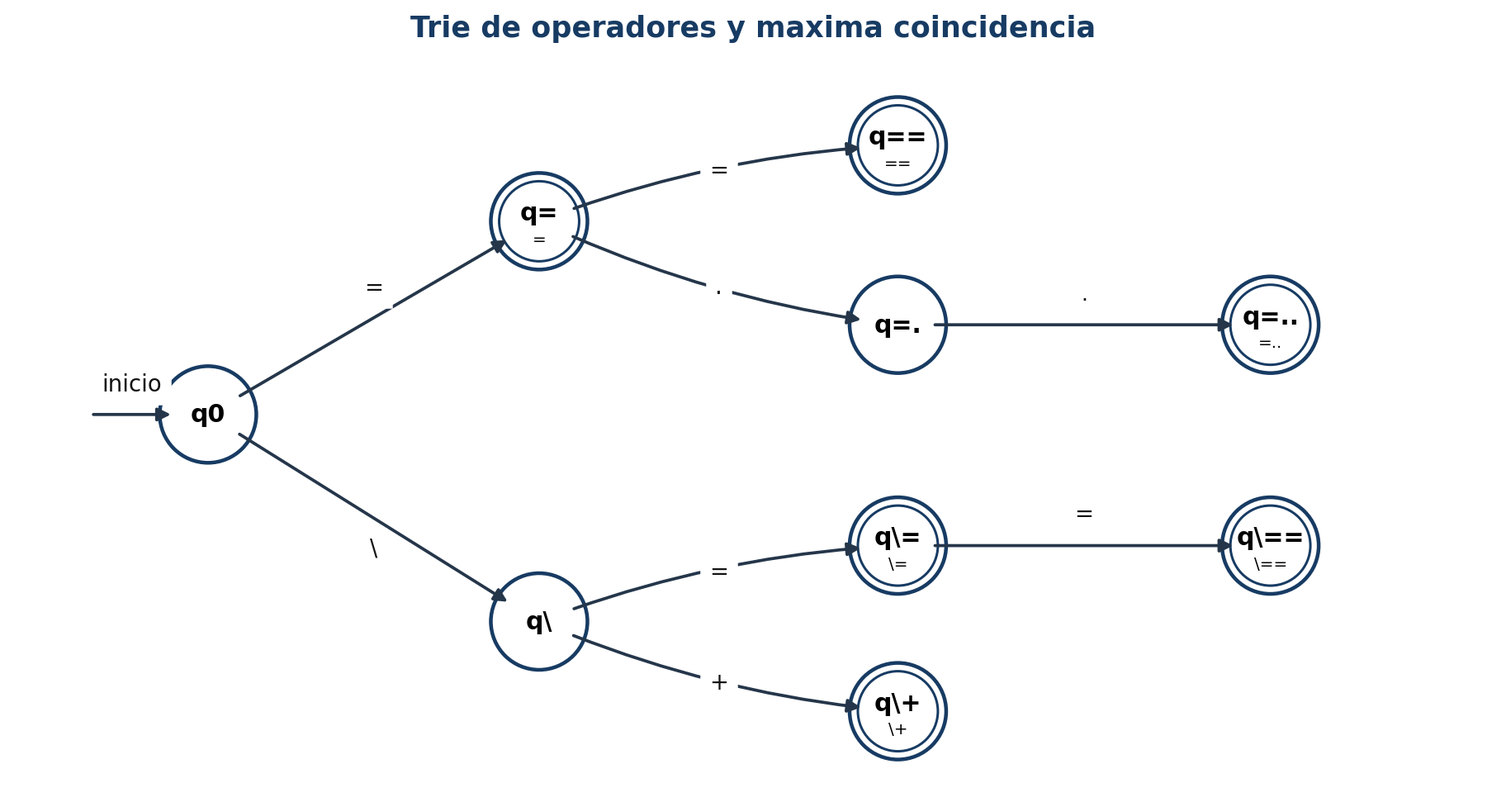
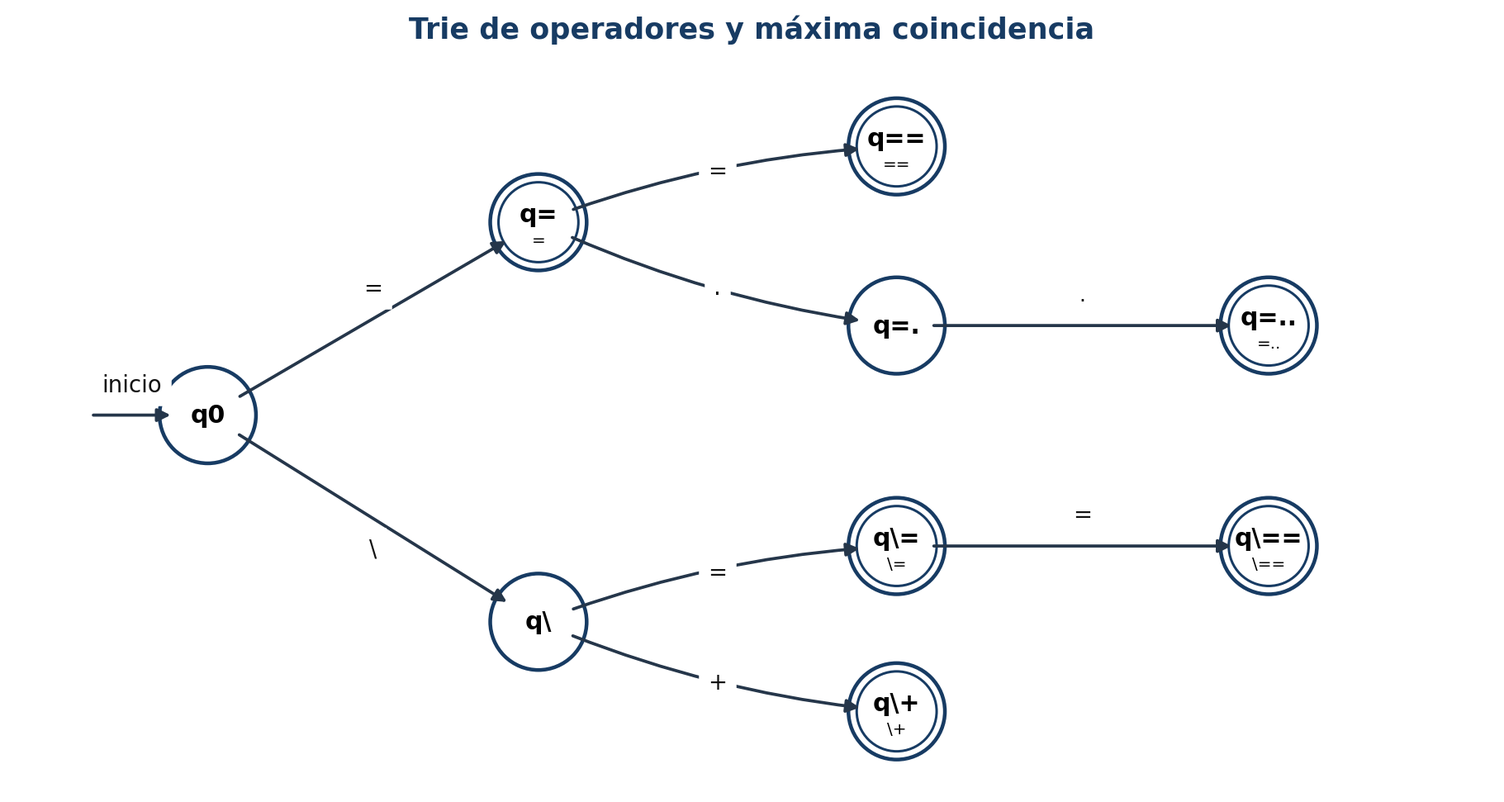
docs: alinear expresiones regulares y automatas con el lexer

diff --git a/informe/secciones/04_automatas.tex b/informe/secciones/04_automatas.tex
@@ -1,11 +1,11 @@
 \section{Diseño de los autómatas}
 
-Los autómatas de las Figuras~\ref{fig:identificadores}, \ref{fig:numeros} y \ref{fig:operadores} representan las categorías con mayor posibilidad de superposición. Los estados con doble circunferencia son aceptadores. Si un estado aceptador mantiene transiciones de salida, el analizador guarda esa aceptación y continúa leyendo; cuando ya no existe una transición válida, retorna el último estado aceptador alcanzado. Ese procedimiento implementa la máxima coincidencia sin confundirla con la prioridad entre categorías.
+Los autómatas de las Figuras~\ref{fig:identificadores}, \ref{fig:numeros} y \ref{fig:operadores} representan las categorías con mayor posibilidad de superposición. La flecha de entrada identifica el estado inicial $q_0$ y la doble circunferencia identifica los estados aceptadores, con la categoría indicada en su interior. Las transiciones omitidas llevan a un estado muerto implícito. Al tokenizar, se conserva la última aceptación y se devuelve el prefijo aceptado más largo; el carácter que inicia el siguiente token queda sin consumir. La validación de fronteras numéricas puede sustituir ese prefijo por un diagnóstico, según la especificación anterior.
 
 \begin{figure}[H]
   \centering
   \includegraphics[width=0.98\textwidth]{figuras/afd_identificadores.png}
-  \caption{AFD para átomos no citados, variables y variable anónima.}
+  \caption{AFD para identificadores. El estado $q_A$ requiere reclasificar \texttt{is} y \texttt{mod}.}
   \label{fig:identificadores}
 \end{figure}
 
@@ -23,9 +23,61 @@ Los autómatas de las Figuras~\ref{fig:identificadores}, \ref{fig:numeros} y \re
   \label{fig:operadores}
 \end{figure}
 
+El estado $q_{\_}$ acepta únicamente la variable anónima. Si se lee otro carácter de $C$, se pasa a $q_V$ y el lexema completo es una variable con nombre. En el autómata numérico, $q_I$, $q_R$ y $q_{Exp}$ aceptan ENTERO, REAL y REAL, respectivamente; $q_{.}$, $q_E$ y $q_S$ no aceptan. Por ejemplo, \texttt{2e-3} recorre $q_0,q_I,q_E,q_S,q_{Exp}$. Para \texttt{12.}, la última aceptación es $q_I$: el punto queda como delimitador. Para \texttt{1e+}, la frontera detecta un exponente incompleto y produce un error, en lugar de emitir el entero \texttt{1}.
+
+El trie mostrado es un fragmento: \texttt{=} y \verb|\=| ya aceptan, pero pueden prolongarse hasta \texttt{==}, \texttt{=..} y \verb|\==|. En el lexer, la tupla completa \texttt{SYMBOL\_OPERATORS}, ordenada por longitud descendente, representa las demás ramas. Un delimitador requiere una transición desde el inicio a su estado aceptador; espacios y comentarios terminados alcanzan estados de descarte.
+
+\subsection{Autómatas para citas y comentarios}
+
+Un mismo AFD sirve para ATOMO\_CITADO y CADENA parametrizando la comilla $c$ (simple o doble). Sea $E=\{n,t,r,\backslash,\text{comilla simple},\text{comilla doble}\}$ el conjunto permitido después de una barra. La Tabla~\ref{tab:afd-citas} especifica todas las transiciones que no van al estado muerto. $Q_0$ es inicial y $Q_F$ es el único aceptador: emite el tipo determinado por $c$. Las clases de cada fila son disjuntas; en $Q_I$ la comilla opuesta es un carácter ordinario.
+
+\begin{table}[H]
+\centering
+\small
+\caption{AFD parametrizado para átomos citados y cadenas.}
+\label{tab:afd-citas}
+\begin{tabularx}{\textwidth}{C{1.5cm}Y C{1.5cm} L{4.0cm}}
+\toprule
+\tableheader{Origen} & \tableheader{Entrada} & \tableheader{Destino} & \tableheader{Interpretación} \\
+\midrule
+$Q_0$ & $c$ & $Q_I$ & Apertura \\
+\rowcolor{palegray} $Q_I$ & $\Sigma\setminus\{c,\backslash,\mathrm{CR},\mathrm{LF}\}$ & $Q_I$ & Contenido ordinario \\
+$Q_I$ & $\backslash$ & $Q_E$ & Inicio de escape \\
+\rowcolor{palegray} $Q_E$ & $E$ & $Q_I$ & Escape admitido \\
+$Q_I$ & $c$ & $Q_F$ & Cierre y aceptación \\
+\bottomrule
+\end{tabularx}
+\end{table}
+
+CR, LF o fin de archivo antes de $Q_F$ generan un diagnóstico de cita sin cierre. Un escape fuera de $E$ impide aceptar el literal; la implementación conserva la primera secuencia inválida y continúa hasta su cierre o fin de línea para recuperar el análisis. Este recorrido de recuperación no convierte el literal erróneo en un token aceptado.
+
+Para comentarios de línea, el estado inicial $L_0$ pasa con \texttt{\%} a $L_1$, que es aceptador y repite con $\Sigma\setminus\{\mathrm{CR},\mathrm{LF}\}$. Al encontrar un salto o fin de archivo se descarta el comentario. El salto queda para el reconocedor de espacios. Para comentarios de bloque, la Tabla~\ref{tab:afd-bloque} reconoce el primer cierre \texttt{*/}; $B_0$ es inicial y $B_F$ es el único aceptador. Un fin de archivo en $B_2$ o $B_3$ produce un error de comentario sin cierre. La entrada \texttt{/*} activa este reconocedor antes que el operador \texttt{/}.
+
+\begin{table}[H]
+\centering
+\small
+\caption{Transiciones no muertas del AFD de comentarios de bloque.}
+\label{tab:afd-bloque}
+\begin{tabularx}{\textwidth}{C{1.5cm}Y C{1.5cm} L{4.0cm}}
+\toprule
+\tableheader{Origen} & \tableheader{Entrada} & \tableheader{Destino} & \tableheader{Interpretación} \\
+\midrule
+$B_0$ & \texttt{/} & $B_1$ & Primer carácter \\
+\rowcolor{palegray} $B_1$ & \texttt{*} & $B_2$ & Apertura completa \\
+$B_2$ & $\Sigma\setminus\{\texttt{*}\}$ & $B_2$ & Contenido \\
+\rowcolor{palegray} $B_2$ & \texttt{*} & $B_3$ & Posible cierre \\
+$B_3$ & \texttt{*} & $B_3$ & Mantiene posible cierre \\
+\rowcolor{palegray} $B_3$ & $\Sigma\setminus\{\texttt{*},\texttt{/}\}$ & $B_2$ & Continúa contenido \\
+$B_3$ & \texttt{/} & $B_F$ & Cierre y descarte \\
+\bottomrule
+\end{tabularx}
+\end{table}
+
 \subsection{Determinización representativa}
 
-Para mostrar la construcción de subconjuntos se utiliza el lenguaje de átomos no citados. Se parte de un AFN deliberadamente no mínimo que divide la primera letra en dos ramas equivalentes. El estado $q_0$ posee transiciones $\varepsilon$ hacia $p_0$ y $r_0$; desde $p_0$, una letra de $[a\text{-}m]$ lleva a $p_1$, mientras que desde $r_0$ una letra de $[n\text{-}z]$ lleva a $r_1$. Los estados $p_1$ y $r_1$ aceptan ATOMO y repiten con cualquier carácter de $C$. La transformación aplica la construcción de subconjuntos y luego refina particiones para obtener estados equivalentes \cite{hopcroft}.
+Para mostrar la construcción de subconjuntos se utiliza el lenguaje $LC^*$ de identificadores iniciados en minúscula, antes de reclasificar las palabras \texttt{is} y \texttt{mod}. En este ejemplo, la etiqueta ATOMO designa ese patrón estructural. Se parte de un AFN deliberadamente no mínimo que divide la primera letra en dos ramas equivalentes. El estado $q_0$ posee transiciones $\varepsilon$ hacia $p_0$ y $r_0$; desde $p_0$, una letra de $[a\text{-}m]$ lleva a $p_1$, mientras que desde $r_0$ una letra de $[n\text{-}z]$ lleva a $r_1$. Los estados $p_1$ y $r_1$ son aceptadores y repiten con cualquier carácter de $C$. La transformación aplica la construcción de subconjuntos y luego refina particiones para obtener estados equivalentes \cite{hopcroft}.
+
+Formalmente, $Q=\{q_0,p_0,r_0,p_1,r_1\}$, el inicial es $q_0$ y $F=\{p_1,r_1\}$. Las clases de entrada son $[a\text{-}m]$, $[n\text{-}z]$, $U\cup D\cup\{\_\}$ y $\Sigma\setminus C$. Para esta última, todas las transiciones del AFN son vacías; se omite su columna para facilitar la lectura.
 
 \begin{table}[H]
 \centering
@@ -45,7 +97,12 @@ $r_1$ & $\varnothing$ & $\{r_1\}$ & $\{r_1\}$ & $\{r_1\}$ \\
 \end{tabularx}
 \end{table}
 
-La clausura-$\varepsilon$ inicial es $D_0=\{q_0,p_0,r_0\}$. Al mover ese conjunto con $[a\text{-}m]$ se obtiene $D_1=\{p_1\}$; con $[n\text{-}z]$ se obtiene $D_2=\{r_1\}$. Cualquier clase sin transición conduce a $D_{\bot}=\varnothing$. Como $p_1$ y $r_1$ repiten con $C$, los subconjuntos alcanzados se mantienen estables después del primer carácter.
+Para un subconjunto $S$ y un carácter $a$ se calcula
+\[
+\delta_D(S,a)=\operatorname{cl}_{\varepsilon}
+\left(\bigcup_{q\in S}\delta_N(q,a)\right).
+\]
+La clausura-$\varepsilon$ inicial es $D_0=\{q_0,p_0,r_0\}$. Al mover ese conjunto con $[a\text{-}m]$ se obtiene $D_1=\{p_1\}$; con $[n\text{-}z]$ se obtiene $D_2=\{r_1\}$. Cualquier clase sin transición conduce a $D_{\bot}=\varnothing$. Como $p_1$ y $r_1$ repiten con $C$, no aparecen nuevos subconjuntos. Un subconjunto acepta si intersecta $F$, por lo que solo $D_1$ y $D_2$ son aceptadores. Los cuatro estados son alcanzables: con $\varepsilon$, \texttt{a}, \texttt{n} y \texttt{0}, respectivamente.
 
 \begin{table}[H]
 \centering
@@ -64,9 +121,13 @@ $D_2=\{r_1\}$ & $D_2$ & $D_2$ & $D_2$ & ATOMO \\
 \end{tabularx}
 \end{table}
 
+Para todo estado de la Tabla~\ref{tab:determinizado}, una entrada de $\Sigma\setminus C$ conduce a $D_{\bot}$. Por ejemplo, \texttt{padre\_1} sigue $D_0,D_2,D_2,D_2,D_2,D_2,D_2,D_2$ y acepta; \texttt{Padre} pasa inmediatamente al estado muerto. No se confunde rechazo como átomo con error global: el despachador reconoce \texttt{Padre} mediante el AFD de variables.
+
 \subsection{Minimización}
 
-La partición inicial es $P_0=\{\{D_1,D_2\},\{D_0,D_{\bot}\}\}$: el primer bloque contiene los estados que aceptan ATOMO y el segundo, los que no aceptan. El bloque no aceptador se divide porque desde $D_0$ una letra minúscula alcanza aceptación, mientras que desde $D_{\bot}$ toda entrada permanece en el estado muerto. En cambio, $D_1$ y $D_2$ no se separan: ambos producen el mismo token y, para cada clase de entrada de $C$, permanecen dentro del bloque aceptador. La partición estable es $P_1=\{\{D_1,D_2\},\{D_0\},\{D_{\bot}\}\}$, por lo que $D_1$ y $D_2$ se fusionan en $D_A$.
+La partición inicial es $P_0=\{\{D_1,D_2\},\{D_0,D_{\bot}\}\}$: el primer bloque contiene los estados que aceptan ATOMO y el segundo, los que no aceptan. El bloque no aceptador se divide porque desde $D_0$ una letra minúscula alcanza aceptación, mientras que desde $D_{\bot}$ toda entrada permanece en el estado muerto. En cambio, $D_1$ y $D_2$ no se separan: ambos aceptan exactamente los sufijos de $C^*$ y cualquier carácter fuera de $C$ lleva al mismo estado muerto. La partición estable es $P_1=\{\{D_1,D_2\},\{D_0\},\{D_{\bot}\}\}$, por lo que $D_1$ y $D_2$ se fusionan en la clase de equivalencia $D_A=[D_1]=[D_2]$.
+
+Los tres estados restantes son distinguibles: el sufijo vacío $\varepsilon$ separa $D_A$ de ambos estados no aceptadores, y el sufijo \texttt{a} distingue $D_0$ de $D_{\bot}$. Como todos son alcanzables, el AFD completo de tres estados es mínimo. En los diagramas parciales se omite el estado muerto y quedan dos estados visibles para este patrón. Esta minimización no corresponde al lexer entero: un AFD que emita varias categorías debe conservar las etiquetas de token al formar su partición inicial.
 
 \begin{table}[H]
 \centering
@@ -78,10 +139,16 @@ La partición inicial es $P_0=\{\{D_1,D_2\},\{D_0,D_{\bot}\}\}$: el primer bloqu
 \tableheader{Estado mínimo} & \tableheader{$[a$--$m]$} & \tableheader{$[n$--$z]$} & \tableheader{$U\cup D\cup\{\_\}$} & \tableheader{Aceptación} \\
 \midrule
 $D_0$ & $D_A$ & $D_A$ & $D_{\bot}$ & No \\
-\rowcolor{palegray} $D_A=D_1\cup D_2$ & $D_A$ & $D_A$ & $D_A$ & ATOMO \\
+\rowcolor{palegray} $D_A=[D_1]=[D_2]$ & $D_A$ & $D_A$ & $D_A$ & ATOMO \\
 $D_{\bot}$ & $D_{\bot}$ & $D_{\bot}$ & $D_{\bot}$ & No \\
 \bottomrule
 \end{tabularx}
 \end{table}
 
-El programa no materializa un AFD único en memoria. Utiliza una estrategia equivalente: un despachador selecciona el autómata de la categoría posible a partir del carácter inicial, las expresiones regulares representan los AFD de identificadores y números, y una lista ordenada codifica las hojas del trie de operadores. Los literales citados y comentarios se recorren con estados explícitos de cierre y escape. Todos los reconocedores entregan un lexema aceptado o un diagnóstico, y el ciclo principal conserva una única posición de lectura. Así se mantiene la relación entre el modelo formal y el recorrido implementado sin generar una tabla global de transición.
+Las entradas de $\Sigma\setminus C$ llevan a $D_{\bot}$ también en la Tabla~\ref{tab:minimo}. La reclasificación de \texttt{is} y \texttt{mod} se mantiene después del reconocimiento: fusionar los estados estructurales no elimina la consulta del lexema completo.
+
+\subsection{Estrategia integrada y correspondencia con el código}
+
+El programa no materializa un AFD único en memoria. Utiliza una estrategia equivalente: un despachador selecciona la categoría a partir del carácter inicial. Primero descarta espacios y comentarios; después reconoce citas, números e identificadores; finalmente intenta operadores, delimitadores y el diagnóstico de carácter no admitido. Las expresiones \texttt{IDENTIFIER}, \texttt{REAL} e \texttt{INTEGER} describen los lenguajes de sus AFD, y \texttt{SYMBOL\_OPERATORS} codifica las hojas del trie. Esto establece equivalencia de reconocimiento; no afirma que el motor \texttt{re} de Python ejecute internamente un AFD.
+
+Las superposiciones se resuelven de manera explícita: \texttt{/*} tiene prioridad sobre \texttt{/}; una cita consume su interior antes de reconocer operadores; un identificador se completa antes de reclasificar palabras; y los operadores se prueban por longitud descendente. Todos los reconocedores aceptan un lexema, descartan un separador o producen un diagnóstico que avanza la lectura. El ciclo principal conserva una sola posición y termina cuando llega al final de la fuente. Así se relacionan los autómatas, las reglas de prioridad y la recuperación sin incorporar análisis sintáctico.

diff --git a/informe/secciones/03_especificacion.tex b/informe/secciones/03_especificacion.tex
@@ -1,6 +1,8 @@
 \section{Especificación léxica}
 
-Se define $L=[a\text{-}z]$, $U=[A\text{-}Z]$, $D=[0\text{-}9]$ y $C=[A\text{-}Za\text{-}z0\text{-}9\_]$. Las expresiones de la Tabla~\ref{tab:formal} usan una notación compatible con \texttt{re} de Python. En la implementación, los patrones compilados se aplican desde la posición actual mediante \texttt{match}; los literales citados y los comentarios de bloque se recorren carácter por carácter para conservar el fragmento exacto cuando falta un cierre. Esta estrategia reconoce el mismo lenguaje definido por las expresiones, pero permite diagnósticos más precisos \cite{pythonre}.
+Se define $L=[a\text{-}z]$, $U=[A\text{-}Z]$, $D=[0\text{-}9]$ y $C=L\cup U\cup D\cup\{\_\}$. El alfabeto de entrada $\Sigma$ contiene los caracteres Unicode de la fuente, pero los identificadores, dígitos y espacios admitidos se restringen a las clases ASCII indicadas. Los caracteres Unicode adicionales pueden aparecer dentro de citas y comentarios. LF, CRLF y CR se cuentan como un único salto de línea; una tabulación ocupa una columna. Las posiciones comienzan en uno y cuentan caracteres, no bytes ni anchura visual.
+
+Las expresiones de la Tabla~\ref{tab:formal} usan la notación de \texttt{re} de Python: $|$ denota alternativas, los corchetes definen clases y los grupos \texttt{(?:...)} no capturan. Los patrones se aplican desde la posición actual mediante \texttt{match}; no se busca una coincidencia posterior que omita caracteres. En Python las alternativas se intentan de izquierda a derecha, de modo que el orden de operadores largos antes de sus prefijos forma parte de la implementación de máxima coincidencia \cite{pythonre}. Las citas y los comentarios de bloque se recorren explícitamente para conservar el fragmento de los errores de cierre.
 
 \small
 \begin{longtable}{L{3.1cm}L{4.7cm}L{7.1cm}}
@@ -13,26 +15,51 @@ Se define $L=[a\text{-}z]$, $U=[A\text{-}Z]$, $D=[0\text{-}9]$ y $C=[A\text{-}Za
 \tableheader{Token} & \tableheader{Descripción} & \tableheader{Expresión regular conceptual} \\
 \midrule
 \endhead
-ATOMO & Identificador iniciado en minúscula. & \path{[a-z][A-Za-z0-9_]*} \\
-\rowcolor{palegray} \makecell[l]{ATOMO\_\\CITADO} & Texto entre comillas simples con escapes admitidos. & \path{'(?:\\[ntr\\'\"]|[^'\\\n])*'} \\
-VARIABLE & Identificador iniciado en mayúscula o guion bajo, excepto el lexema aislado \texttt{\_}. & \path{[A-Z_][A-Za-z0-9_]*} \\
+ATOMO & Identificador iniciado en minúscula; se reclasifican \texttt{is} y \texttt{mod}. & \path{[a-z][A-Za-z0-9_]*} \\
+\rowcolor{palegray} \makecell[l]{ATOMO\_\\CITADO} & Texto entre comillas simples con escapes admitidos. & \path{'(?:\\[ntr\\'"]|[^'\\\r\n])*'} \\
+VARIABLE & Identificador iniciado en mayúscula o guion bajo, excepto el lexema aislado \texttt{\_}. & \path{(?:[A-Z][A-Za-z0-9_]*|_[A-Za-z0-9_]+)} \\
 \rowcolor{palegray} \makecell[l]{VARIABLE\_\\ANONIMA} & Guion bajo aislado. & \path{_} \\
 ENTERO & Secuencia decimal sin signo. & \path{[0-9]+} \\
 \rowcolor{palegray} REAL & Decimal o exponente; el signo solo se admite en el exponente. & \path{(?:[0-9]+\.[0-9]+(?:[eE][+-]?[0-9]+)?|[0-9]+[eE][+-]?[0-9]+)} \\
-CADENA & Texto entre comillas dobles con escapes admitidos. & \path{\"(?:\\[ntr\\'\"]|[^\"\\\n])*\"} \\
+CADENA & Texto entre comillas dobles con escapes admitidos. & \path{"(?:\\[ntr\\'"]|[^"\\\r\n])*"} \\
 \rowcolor{palegray} \makecell[l]{OPERADOR\_\\CLAUSULA} & Operadores de regla y gramática de cláusulas definidas. & \path{-->|:-} \\
 \makecell[l]{OPERADOR\_\\CONSULTA} & Inicio de consulta. & \path{\?-} \\
 \rowcolor{palegray} \makecell[l]{OPERADOR\_\\COMPARACION} & Unificación, identidad, desigualdad y comparación. & \path{\\==|=\.\.|\\=|==|=<|>=|=|<|>} \\
 \makecell[l]{OPERADOR\_\\ARITMETICO} & Operadores simbólicos y alfabéticos admitidos. & \path{//|\*\*|[+\-*/]|is|mod} \\
 \rowcolor{palegray} \makecell[l]{OPERADOR\_\\CONTROL} & Negación, corte y disyunción. & \path{\\\+|!|;} \\
-DELIMITADOR & Agrupación, lista, separación y cierre de cláusula. & \path{[()\[\]{}|,.]} \\
-\rowcolor{palegray} COMENTARIO & Línea o bloque descartado por el analizador. & \path{%[^\n]*|/\*(?s:.*?)\*/} \\
-ESPACIO & Separadores descartados con actualización de posición. & \path{[ \t\r\n\f\v]+} \\
+DELIMITADORES & Familia de tokens detallada en la Tabla~\ref{tab:delimitadores}. & \path{[()\[\]{}|,.]} \\
+\rowcolor{palegray} COMENTARIO de línea & Desde \texttt{\%} hasta antes de CR, LF o fin de archivo; se descarta. & \path{%[^\r\n]*} \\
+COMENTARIO de bloque & Hasta el primer cierre; sin anidamiento; se descarta. & \path{/\*[^*]*\*+(?:[^/*][^*]*\*+)*/} \\
+\rowcolor{palegray} ESPACIO & Separadores descartados con actualización de posición. & \path{[ \t\r\n\f\v]+} \\
 \bottomrule
 \end{longtable}
 \normalsize
 
-Los operadores se limitan a los lexemas exigidos por la tarea. Prolog permite declarar operadores y asociarles precedencia y tipo, pero esa información pertenece al análisis sintáctico y queda fuera de este lexer \cite{swioperators}. En consecuencia, \texttt{is} y \texttt{mod} se tratan como operadores alfabéticos reservados dentro del subconjunto, mientras que cualquier identificador más largo se conserva como átomo.
+Los operadores cubren los lexemas obligatorios de la tarea y la extensión opcional \texttt{-->}. Prolog permite declarar operadores y asociarles precedencia y tipo, pero esa información pertenece al análisis sintáctico y queda fuera de este lexer \cite{swioperators}. Se reconoce primero el identificador completo: solo los lexemas exactos \texttt{is} y \texttt{mod} se reclasifican como operadores; \texttt{island}, \texttt{modulo} e \texttt{is2} son átomos. Entre números válidos, REAL tiene prioridad sobre ENTERO. El signo inicial siempre es un operador: \texttt{-25} produce dos tokens, mientras que \texttt{2e-3} produce un REAL.
+
+Ambas clases de citas permiten contenido vacío y los escapes \verb|\n|, \verb|\t|, \verb|\r|, \verb|\\|, \verb|\'| y \verb|\"|. Se conserva el lexema exacto, incluidas comillas y barras, sin evaluar los escapes. Un CR o LF literal interrumpe una cita sin cierre. Los comentarios no se reconocen dentro de citas; las comillas no tienen significado especial dentro de comentarios. La expresión de bloque impide consumir un cierre intermedio, por lo que \texttt{/* a */ b /* c */} contiene dos comentarios separados por el átomo \texttt{b}.
+
+La aceptación numérica incorpora una regla de frontera: una letra ASCII, guion bajo o un segundo punto seguido de dígito ASCII inmediatamente después del número origina un diagnóstico de número mal formado. Así, \texttt{12abc} y \texttt{3.14.15} no se fragmentan en tokens válidos. Un punto sin dígito posterior queda disponible como PUNTO: \texttt{12.} produce ENTERO y PUNTO. Esta comprobación y la recuperación de errores complementan los patrones de números válidos; no analizan la gramática de cláusulas.
+
+\begin{table}[H]
+\centering
+\small
+\caption{Nombres concretos de los tokens delimitadores. Cada patrón es un carácter literal.}
+\label{tab:delimitadores}
+\begin{tabularx}{\textwidth}{Y C{1.3cm} Y C{1.3cm}}
+\toprule
+\tableheader{Token} & \tableheader{Lexema} & \tableheader{Token} & \tableheader{Lexema} \\
+\midrule
+PARENTESIS\_IZQ & \texttt{(} & PARENTESIS\_DER & \texttt{)} \\
+\rowcolor{palegray} CORCHETE\_IZQ & \texttt{[} & CORCHETE\_DER & \texttt{]} \\
+LLAVE\_IZQ & \texttt{\{} & LLAVE\_DER & \texttt{\}} \\
+\rowcolor{palegray} BARRA\_VERTICAL & \texttt{|} & COMA & \texttt{,} \\
+PUNTO & \texttt{.} & & \\
+\bottomrule
+\end{tabularx}
+\end{table}
+
+Los ejemplos inválidos de la Tabla~\ref{tab:ejemplos} no pertenecen a la categoría de su fila; algunos sí son válidos como otra categoría. Por ejemplo, \texttt{Padre} es una variable y \texttt{\_\_} también. Los comentarios y espacios no emiten tokens ni atributos; los índices de átomos, variables y literales comienzan en cero dentro de sus respectivas tablas.
 
 \small
 \begin{longtable}{L{3.1cm}L{3.3cm}L{4.3cm}L{3.5cm}}
@@ -46,14 +73,20 @@ Los operadores se limitan a los lexemas exigidos por la tarea. Prolog permite de
 \midrule
 \endhead
 ATOMO & \texttt{padre}, \texttt{persona\_1} & \texttt{Padre}, \texttt{1persona} & Índice en átomos \\
-\rowcolor{palegray} \makecell[l]{ATOMO\_\\CITADO} & \texttt{'Juan Perez'}, \texttt{':-'} & \texttt{'sin cierre} & Índice en átomos \\
+\rowcolor{palegray} \makecell[l]{ATOMO\_\\CITADO} & \texttt{'Juan Pérez'}, \texttt{':-'} & \texttt{'sin cierre} & Índice en átomos \\
 VARIABLE & \texttt{X}, \texttt{Persona}, \texttt{\_Tmp} & \texttt{x}, \texttt{2X} & Índice en variables \\
 \rowcolor{palegray} \makecell[l]{VARIABLE\_\\ANONIMA} & \texttt{\_} & \texttt{\_\_} como anónima & Sin índice \\
 ENTERO & \texttt{25}, \texttt{0} & \texttt{12abc}, \texttt{2e} & Índice en literales \\
 \rowcolor{palegray} REAL & \texttt{3.14}, \texttt{2e-3} & \texttt{3.14.15}, \texttt{1e+} & Índice en literales \\
 CADENA & \texttt{"hola"}, \verb|"a\n b"| & \texttt{"sin cierre}, \verb|"x\q"| & Índice en literales \\
-\rowcolor{palegray} OPERADOR & \verb|\==|, \texttt{=..}, \texttt{:-}, \texttt{is} & \texttt{:}, \texttt{@} & Sin índice \\
-DELIMITADOR & \texttt{( ) [ ] \{ \} $|$ , .} & \texttt{@}, \texttt{\#} & Sin índice \\
+\rowcolor{palegray} \makecell[l]{OPERADOR\_\\CLAUSULA} & \texttt{:-}, \texttt{-->} & \texttt{:}, \texttt{?-} & Sin índice \\
+\makecell[l]{OPERADOR\_\\CONSULTA} & \texttt{?-} & \texttt{?}, \texttt{:-} & Sin índice \\
+\rowcolor{palegray} \makecell[l]{OPERADOR\_\\COMPARACION} & \verb|\==|, \texttt{=..}, \texttt{=<} & \texttt{is}, \texttt{@} & Sin índice \\
+\makecell[l]{OPERADOR\_\\ARITMETICO} & \texttt{//}, \texttt{**}, \texttt{is} & \texttt{island}, \texttt{=} & Sin índice \\
+\rowcolor{palegray} \makecell[l]{OPERADOR\_\\CONTROL} & \verb|\+|, \texttt{!}, \texttt{;} & \texttt{+}, \texttt{?} & Sin índice \\
+DELIMITADORES & \texttt{( ) [ ] \{ \} | , .} & \texttt{@}, \texttt{\#} & Sin índice \\
+\rowcolor{palegray} COMENTARIO & \texttt{\% nota}, \texttt{/* nota */} & \texttt{/* sin cierre} & Se descarta \\
+ESPACIO & Espacio, TAB, CR, LF, FF, VT & Espacio Unicode U+00A0 & Se descarta \\
 \bottomrule
 \end{longtable}
 \normalsize

diff --git a/docs/generate_diagrams.py b/docs/generate_diagrams.py
@@ -1,13 +1,28 @@
 from __future__ import annotations
 
 from pathlib import Path
+import shutil
 
+import matplotlib
+
+matplotlib.use("Agg")
 import matplotlib.pyplot as plt
 from matplotlib.patches import Circle, FancyArrowPatch
 
 
-OUT = Path(__file__).resolve().parent / "figures"
-OUT.mkdir(parents=True, exist_ok=True)
+ROOT = Path(__file__).resolve().parents[1]
+OUTPUTS = (ROOT / "docs" / "figures", ROOT / "informe" / "figuras")
+
+
+def save(fig, filename):
+    """Genera una imagen y sincroniza la copia utilizada por el informe."""
+    for directory in OUTPUTS:
+        directory.mkdir(parents=True, exist_ok=True)
+    destination = OUTPUTS[0] / filename
+    fig.savefig(destination, bbox_inches="tight", facecolor="white")
+    for directory in OUTPUTS[1:]:
+        shutil.copyfile(destination, directory / filename)
+    plt.close(fig)
 
 
 def arrow(ax, start, end, label, bend=0.0, offset=(0, 0), size=11):
@@ -67,7 +82,7 @@ def identifiers():
     fig, ax = setup(10, 4.4)
     q0, qa, qv, qu = (1.4, 2.1), (4.7, 3.2), (7.7, 1.3), (4.5, 0.65)
     state(ax, q0, "q0")
-    state(ax, qa, "qA", True, "ATOMO")
+    state(ax, qa, "qA", True, "ATOMO (*)")
     state(ax, qv, "qV", True, "VARIABLE")
     state(ax, qu, "q_", True, "ANONIMA")
     arrow(ax, (0.25, 2.1), q0, "inicio", offset=(0, 0.22))
@@ -79,10 +94,11 @@ def identifiers():
     arrow(ax, qu, qv, "[A-Za-z0-9_]", bend=-0.08, offset=(0, 0.22), size=9)
     ax.set_xlim(-0.1, 9.2)
     ax.set_ylim(0.0, 4.2)
-    ax.set_title("AFD para atomos no citados y variables", fontsize=14, fontweight="bold", color="#173B63")
+    ax.set_title("AFD para identificadores", fontsize=14, fontweight="bold", color="#173B63")
+    fig.text(0.5, 0.01, "(*) is y mod se reclasifican como OPERADOR_ARITMETICO.",
+             ha="center", fontsize=9, color="#25364A")
     fig.tight_layout()
-    fig.savefig(OUT / "afd_identificadores.png", bbox_inches="tight", facecolor="white")
-    plt.close(fig)
+    save(fig, "afd_identificadores.png")
 
 
 def numbers():
@@ -107,15 +123,14 @@ def numbers():
     arrow(ax, pts["qI"], pts["qE"], "e | E", bend=0.08, offset=(0, -0.18))
     arrow(ax, pts["qR"], pts["qE"], "e | E", bend=0.12, offset=(-0.1, -0.12))
     arrow(ax, pts["qE"], pts["qS"], "+ | -", offset=(0, 0.22))
-    arrow(ax, pts["qE"], pts["qX"], "[0-9]", bend=-0.18, offset=(0.0, 0.48))
+    arrow(ax, pts["qE"], pts["qX"], "[0-9]", bend=-0.32, offset=(0.0, 0.92))
     arrow(ax, pts["qS"], pts["qX"], "[0-9]", offset=(0, 0.22))
     loop(ax, pts["qX"], "[0-9]", above=False)
     ax.set_xlim(-0.4, 11.0)
     ax.set_ylim(0.0, 4.8)
     ax.set_title("AFD para enteros y reales sin signo", fontsize=14, fontweight="bold", color="#173B63")
     fig.tight_layout()
-    fig.savefig(OUT / "afd_numeros.png", bbox_inches="tight", facecolor="white")
-    plt.close(fig)
+    save(fig, "afd_numeros.png")
 
 
 def operators():
@@ -142,10 +157,9 @@ def operators():
     arrow(ax, qbeq, qbee, "=", offset=(0, 0.23))
     ax.set_xlim(-0.4, 10.3)
     ax.set_ylim(0.0, 5.35)
-    ax.set_title("Trie de operadores y maxima coincidencia", fontsize=14, fontweight="bold", color="#173B63")
+    ax.set_title("Trie de operadores y máxima coincidencia", fontsize=14, fontweight="bold", color="#173B63")
     fig.tight_layout()
-    fig.savefig(OUT / "afd_operadores.png", bbox_inches="tight", facecolor="white")
-    plt.close(fig)
+    save(fig, "afd_operadores.png")
 
 
 if __name__ == "__main__":
